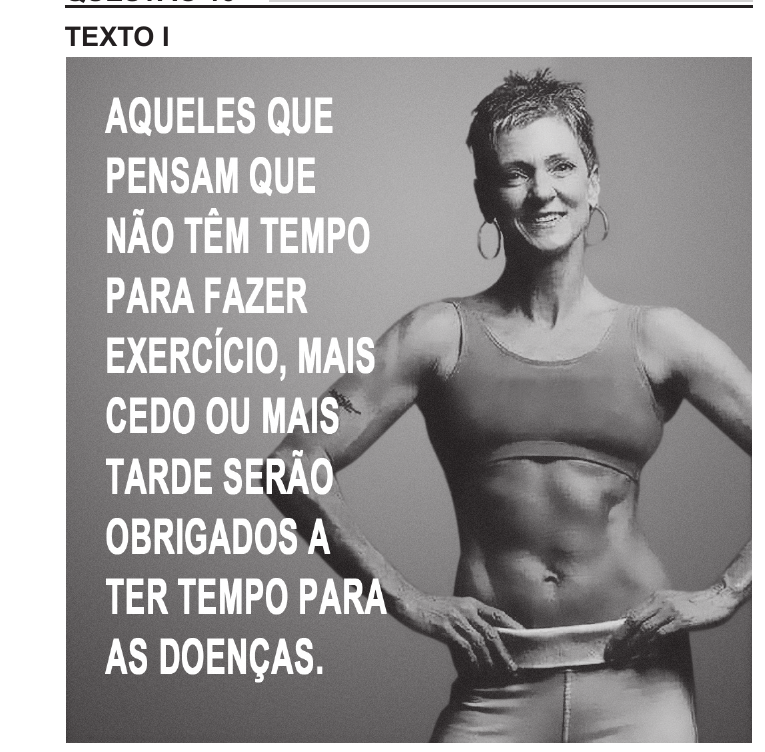
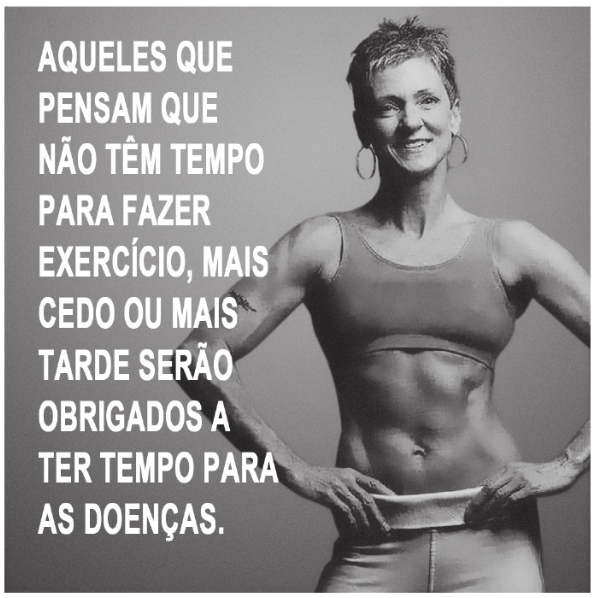
2018 up to 30

diff --git a/src/ReviewPage.jsx b/src/ReviewPage.jsx
@@ -359,7 +359,7 @@ export default function ReviewPage() {
   const [issueFilter, setIssueFilter] = useState(null)
   const activeItemRef = useRef(null)
   const [collapsedCtx, setCollapsedCtx] = useState({})
-  const [sidebarFilter, setSidebarFilter] = useState('all') // 'all' | 'not-ok'
+  const [sidebarFilter, setSidebarFilter] = useState('not-ok') // 'all' | 'not-ok'
 
   // Derive active question list
   const activeList = useMemo(() => {
@@ -495,7 +495,7 @@ export default function ReviewPage() {
   // Suggest a context key for the current question
   const suggestContextId = useCallback(() => {
     if (!currentQuestion) return ''
-    const area = { linguagens: 'lang', humanas: 'humanas', nature: 'nature', math: 'math' }[currentQuestion.area] ?? currentQuestion.area
+    const area = currentQuestion.area ?? 'linguagens'
     const base = `enem_${currentQuestion.year}_${area}_q${currentQuestion.number}`
     let key = `${base}_ctx1`
     let n = 1
